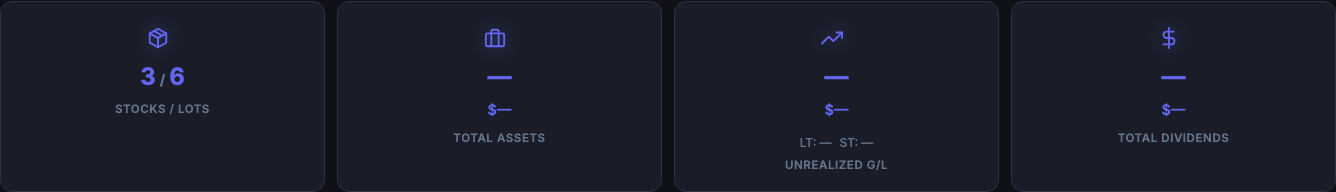
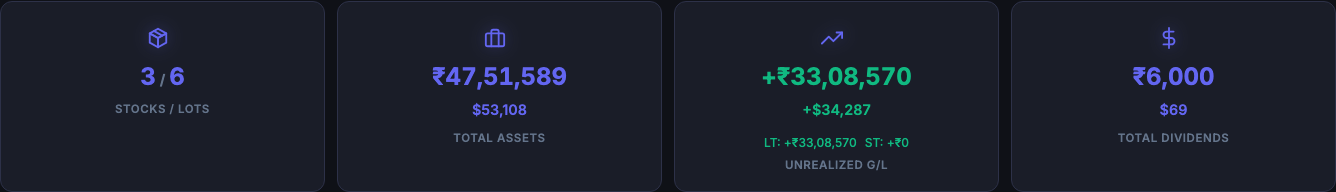
docs: add post-report dashboard, SBI rates used, and asset pie chart screenshots; update README

diff --git a/README.md b/README.md
@@ -199,7 +199,7 @@ Expand any stock card to view its complete composition: detailed acquisition lot
 ![Expanded Stock Cards](docs/screenshots/02c_stock_cards.png)
 
 #### Portfolio Metrics Overview
-Monitor the performance of your entire portfolio at a glance with clean, dedicated dashboard metric cards showing total cost, current value, total dividends, and net unrealized gains.
+After generating the FA Report, the dashboard metrics update to reflect calculated values — total assets at cost, current market value, total dividends received, and net unrealized gains/losses across your entire portfolio.
 ![Portfolio Metrics Overview](docs/screenshots/02b_dashboard_summary.png)
 
 ### 3. Schedule FA Section A3 Report
@@ -226,9 +226,13 @@ Simulate hypothetical sales based on your current holdings, fetch live intraday 
 Generate a unified tax statement combining multiple calendar years to perfectly align with Indian Financial Years.
 ![Tax Statement](docs/screenshots/08_tax_statement.png)
 
-### 8. Historical SBI TT Rates Manager
-View, edit, or lock historical monthly SBI TT Buying rates dating back to 2000.
-![SBI Rates](docs/screenshots/09_monthly_rates.png)
+### 8. SBI TT Rates Used in Calculation
+Every exchange rate applied during report generation is listed in full — stock by stock, event by event (Buy, Peak, Closing, Dividend, Sale) — with the exact rate date and source. Click any rate to override it inline.
+![SBI Rates Used](docs/screenshots/09_sbi_rates_used.png)
+
+### 9. End-of-Year Asset Allocation
+Visualize how your foreign portfolio is distributed across stocks as of December 31st with an interactive donut chart showing INR values and percentage breakdown.
+![Asset Pie Chart](docs/screenshots/10_asset_pie_chart.png)
 
 ---
 
